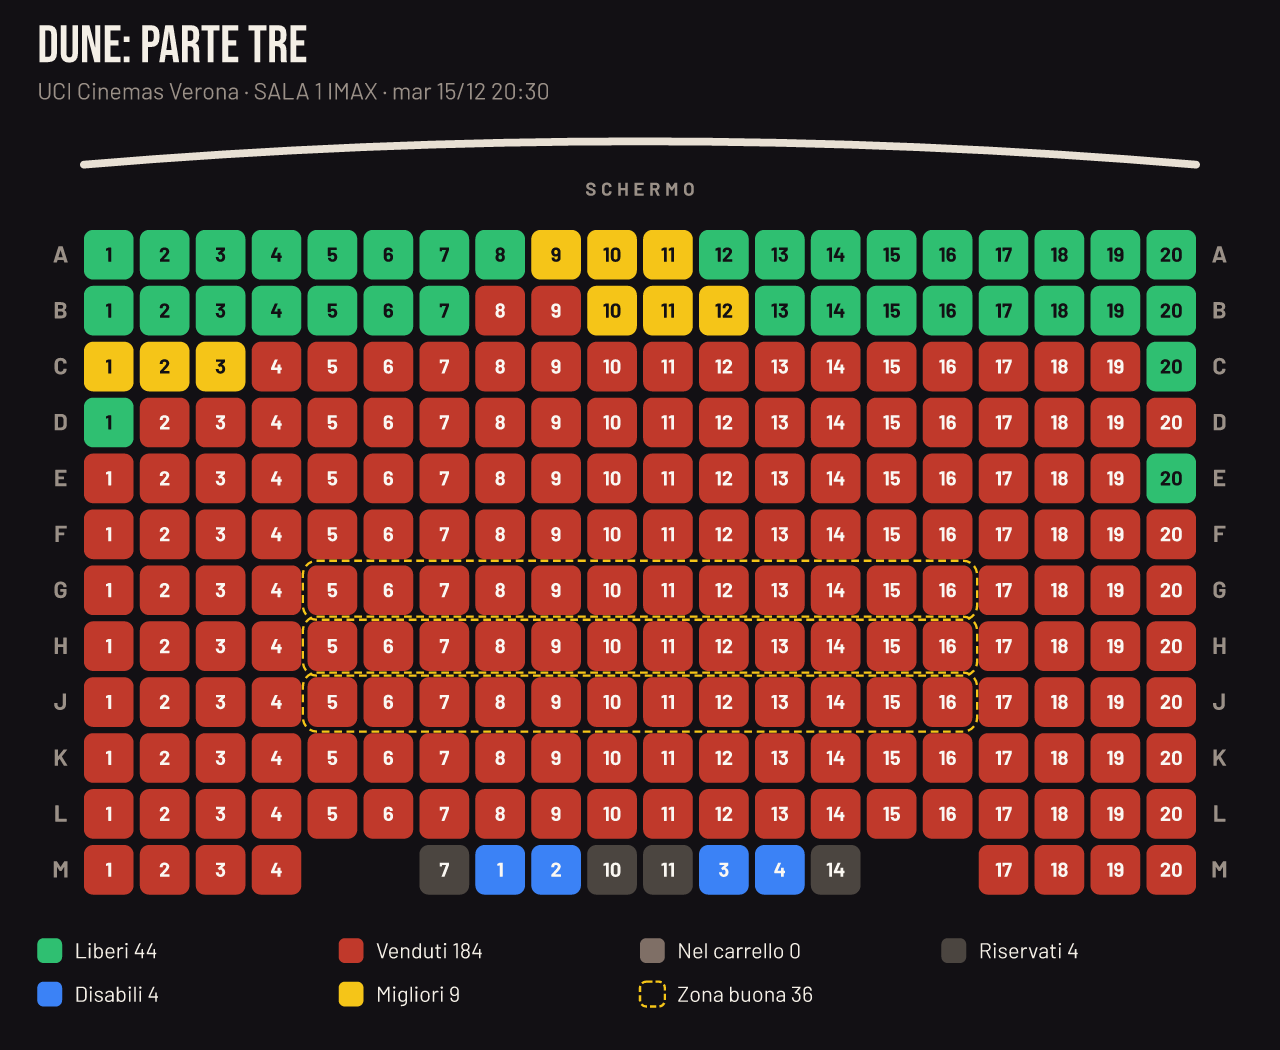
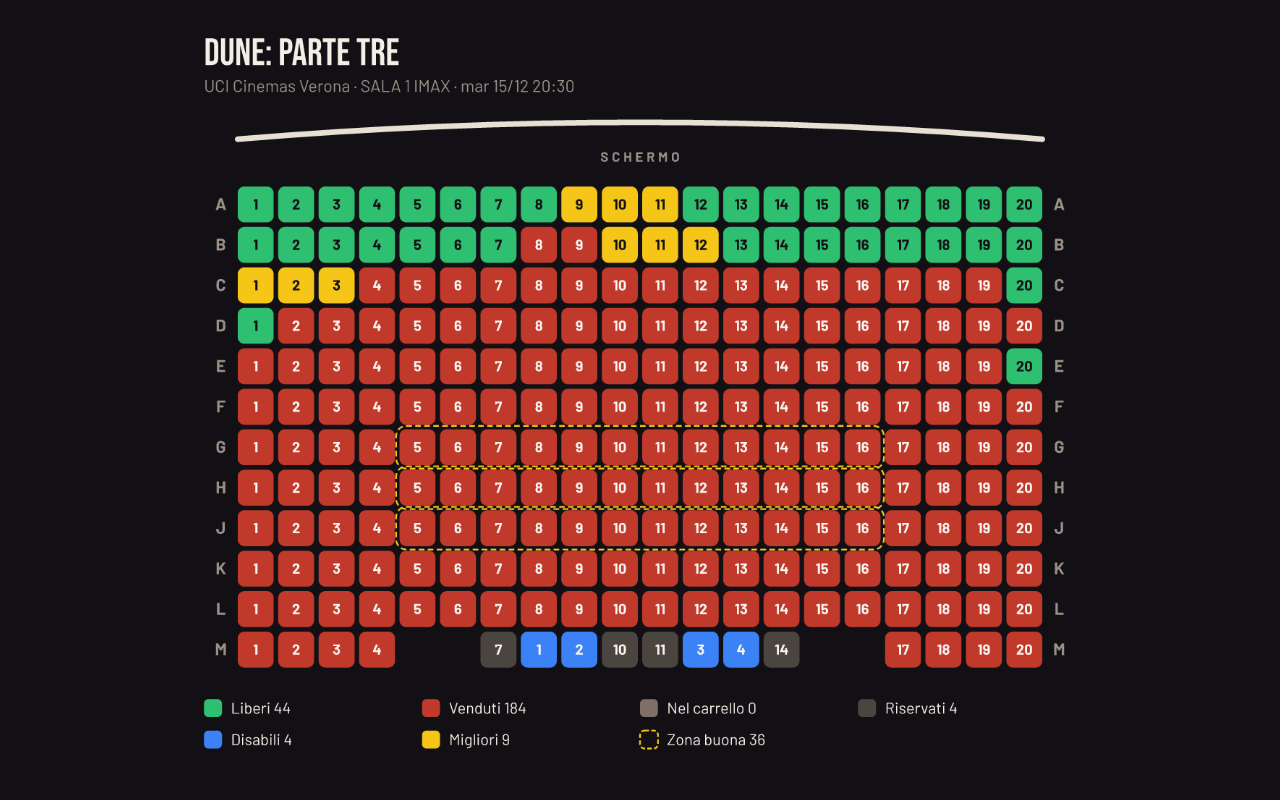
docs: dark screenshots in one row, social preview from the GitHub template
The three README images are dark and 1280x800; the page of a showing goes,
it repeated the seat map. docs/img/social-preview.html renders the 1280x640
social preview within the 40 px safe area; operations.md says how.

diff --git a/docs/img/social-preview.html b/docs/img/social-preview.html
@@ -1,0 +1,37 @@
+<!doctype html>
+<html lang="it">
+<head>
+<meta charset="utf-8">
+<title>Cinema Watch: social preview</title>
+<style>
+@font-face { font-family: "Bebas Neue"; src: url("../../assets/fonts/BebasNeue-Regular.ttf"); }
+@font-face { font-family: "Barlow"; font-weight: 400; src: url("../../assets/fonts/Barlow-Regular.ttf"); }
+@font-face { font-family: "Barlow"; font-weight: 600; src: url("../../assets/fonts/Barlow-SemiBold.ttf"); }
+html, body { margin: 0; width: 1280px; height: 640px; overflow: hidden; background: #121014; }
+body { position: relative; font-family: "Barlow", sans-serif; color: #f4efe6; }
+.safe { position: absolute; inset: 40px; display: flex; align-items: center; gap: 48px; }
+.text { flex: 1 1 0; min-width: 0; padding-left: 24px; }
+.logo { width: 112px; height: 112px; display: block; }
+h1 { margin: 28px 0 0; font-family: "Bebas Neue", sans-serif; font-weight: 400; font-size: 112px; line-height: 0.9; letter-spacing: 1px; }
+.tagline { margin: 20px 0 0; font-size: 30px; line-height: 1.3; color: #f4efe6; max-width: 560px; }
+.chains { margin: 28px 0 0; font-size: 24px; font-weight: 600; color: #f5c518; letter-spacing: 0.5px; }
+.hall { flex: 0 0 auto; width: 540px; height: 450px; border-radius: 24px; overflow: hidden; border: 2px solid #2e2932; background: #121014; }
+.hall img { width: 756px; margin: -8px 0 0 -108px; display: block; }
+.guide { position: absolute; inset: 40px; outline: 2px dashed #f5c518; display: none; }
+body.check .guide { display: block; }
+</style>
+</head>
+<body>
+<div class="safe">
+  <div class="text">
+    <img class="logo" src="../../assets/logo.svg" alt="">
+    <h1>Cinema Watch</h1>
+    <p class="tagline">Cacce ai biglietti dei cinema italiani, con avvisi su Telegram e la pianta della sala</p>
+    <p class="chains">UCI · The Space · Webtic · 18Tickets</p>
+  </div>
+  <div class="hall"><img src="pianta.png" alt=""></div>
+</div>
+<div class="guide"></div>
+<script>if (location.hash === "#check") document.body.classList.add("check");</script>
+</body>
+</html>

diff --git a/docs/operations.md b/docs/operations.md
@@ -85,6 +85,18 @@ Per verificare l'attestazione di un'immagine:
 gh attestation verify oci://ghcr.io/pilascat/cinema-watch:<tag> -R PilaScat/cinema-watch
 ```
 
+### Immagini del repo
+
+Stanno in `docs/img/`, tutte in tema scuro e a 1280×800: `pianta.png` (la pianta come arriva su Telegram), `home.png` (le cacce) e `cinema.png` (i cinema dalla casa d'esempio in piazza del Duomo a Milano, mai una casa vera). Si rifanno da un server locale con dati veri e il tema scuro scelto nell'app.
+
+La social preview segue il template di GitHub: 1280×640, PNG sotto 1 MB, contenuto entro 40 px dai bordi. La sorgente è `docs/img/social-preview.html` (font, icona e pianta del repo); si rigenera con Edge headless e poi si carica a mano da Settings → General → Social preview, perché GitHub non ha un'API per farlo:
+
+```sh
+msedge --headless=new --hide-scrollbars --window-size=1280,640 --screenshot=docs/img/social-preview.png file:///<percorso del repo>/docs/img/social-preview.html
+```
+
+Aprendo la sorgente con `#check` in fondo all'indirizzo si vede il bordo dell'area sicura.
+
 ### Se fallisce solo il job Release
 
 Immagini, manifest e attestazione sono già pubblicati. Il tag non si sposta e non si cancella, e rilanciare il workflow ricostruirebbe le immagini con digest nuovi: `:latest` e il tag non coinciderebbero più. La Release si completa a mano con gli stessi passi del job, da Git Bash nella cartella del repo:

diff --git a/README.md b/README.md
@@ -29,15 +29,13 @@
 - **Cinema**: UCI Cinemas, i 35 The Space Cinema, circa 300 cinema che vendono con Webtic (Notorious, Cinelandia, Movie Planet e molti indipendenti) e i cinema 18Tickets, ordinabili per distanza da casa; un cinema 18Tickets che manca si aggiunge nelle Impostazioni.
 - **Web UI**: cacce, programmazione, pagina dello spettacolo con la pianta dal vivo e l'andamento dei posti, ricerca di un film anche con un errore di battitura; si installa come app dietro HTTPS.
 
-![La pianta della sala come arriva su Telegram](docs/img/pianta.png)
+<p align="center">
+  <img src="docs/img/pianta.png" width="32%" alt="La pianta della sala come arriva su Telegram">
+  <img src="docs/img/home.png" width="32%" alt="Le cacce">
+  <img src="docs/img/cinema.png" width="32%" alt="I cinema dal più vicino a casa">
+</p>
 
-![Le cacce, tema scuro](docs/img/home.png)
-
-![I cinema UCI e Webtic dal più vicino a casa, tema chiaro](docs/img/cinema.png)
-
-![La pagina di uno spettacolo, tema chiaro](docs/img/spettacolo.png)
-
-Dall'alto: la pianta di una sala come arriva su Telegram, le cacce nel tema scuro, i cinema ordinati per distanza da una casa d'esempio a Milano e la pagina di uno spettacolo con la zona buona tratteggiata.
+<p align="center">La pianta su Telegram, le cacce e i cinema per distanza da una casa d'esempio a Milano.</p>
 
 ## Stack
 
